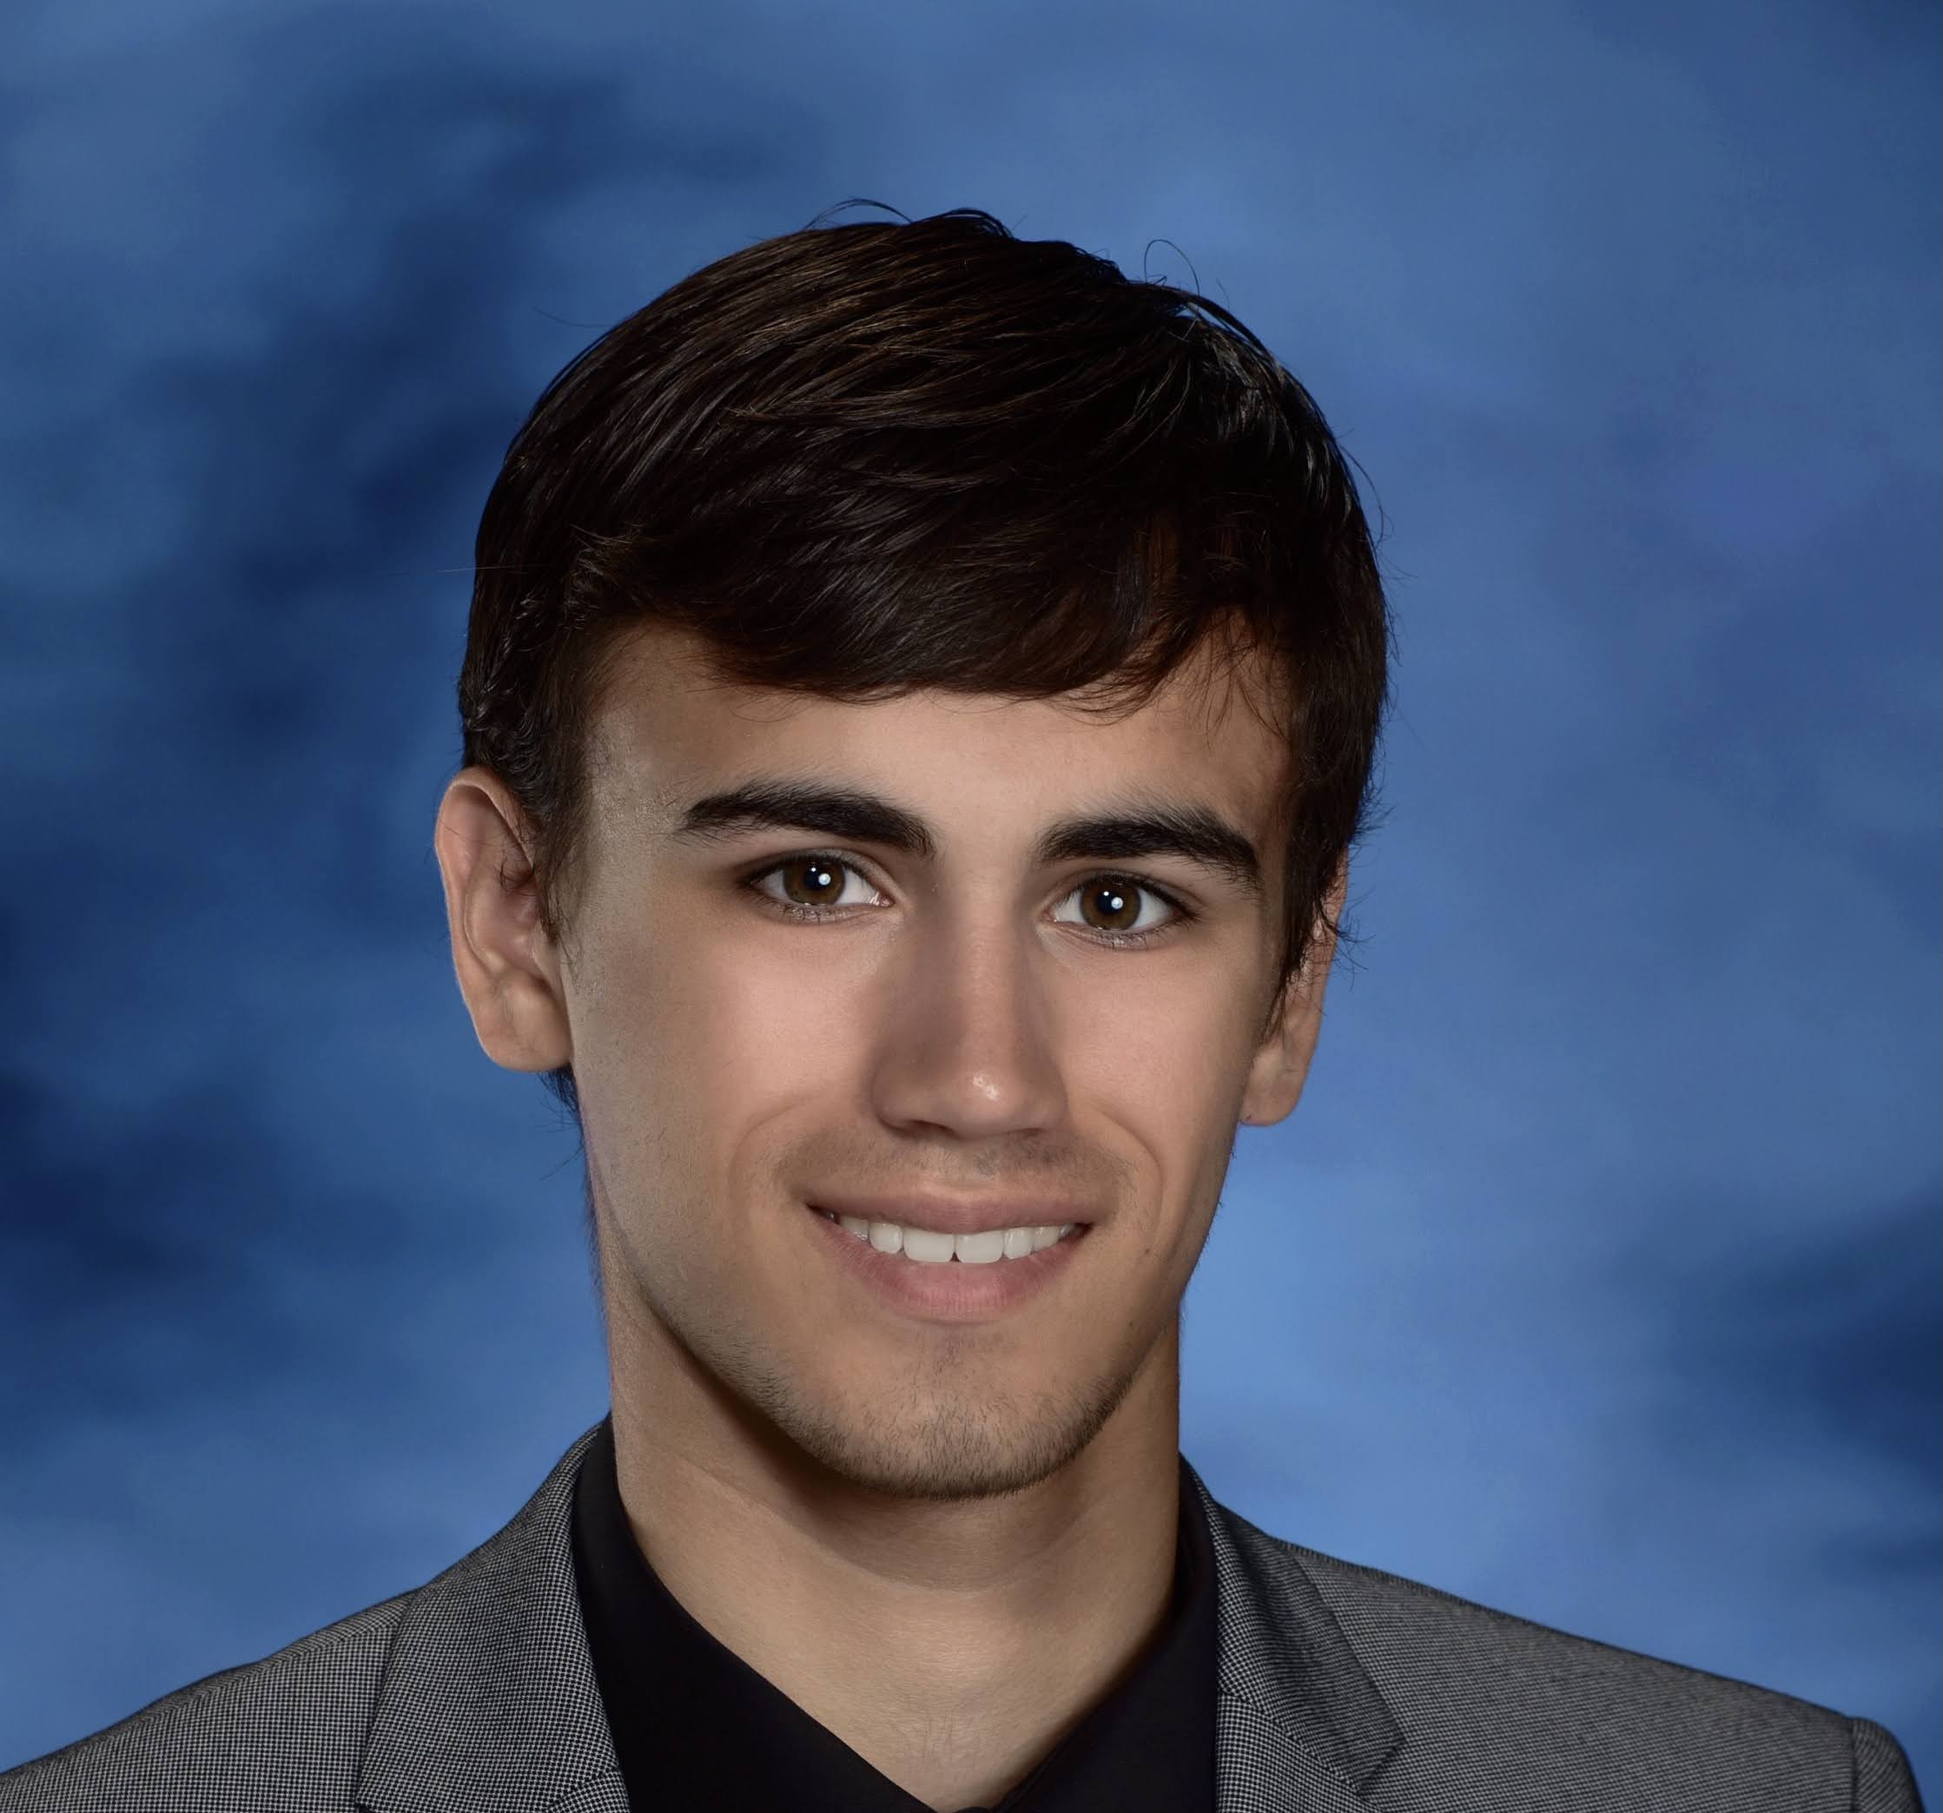
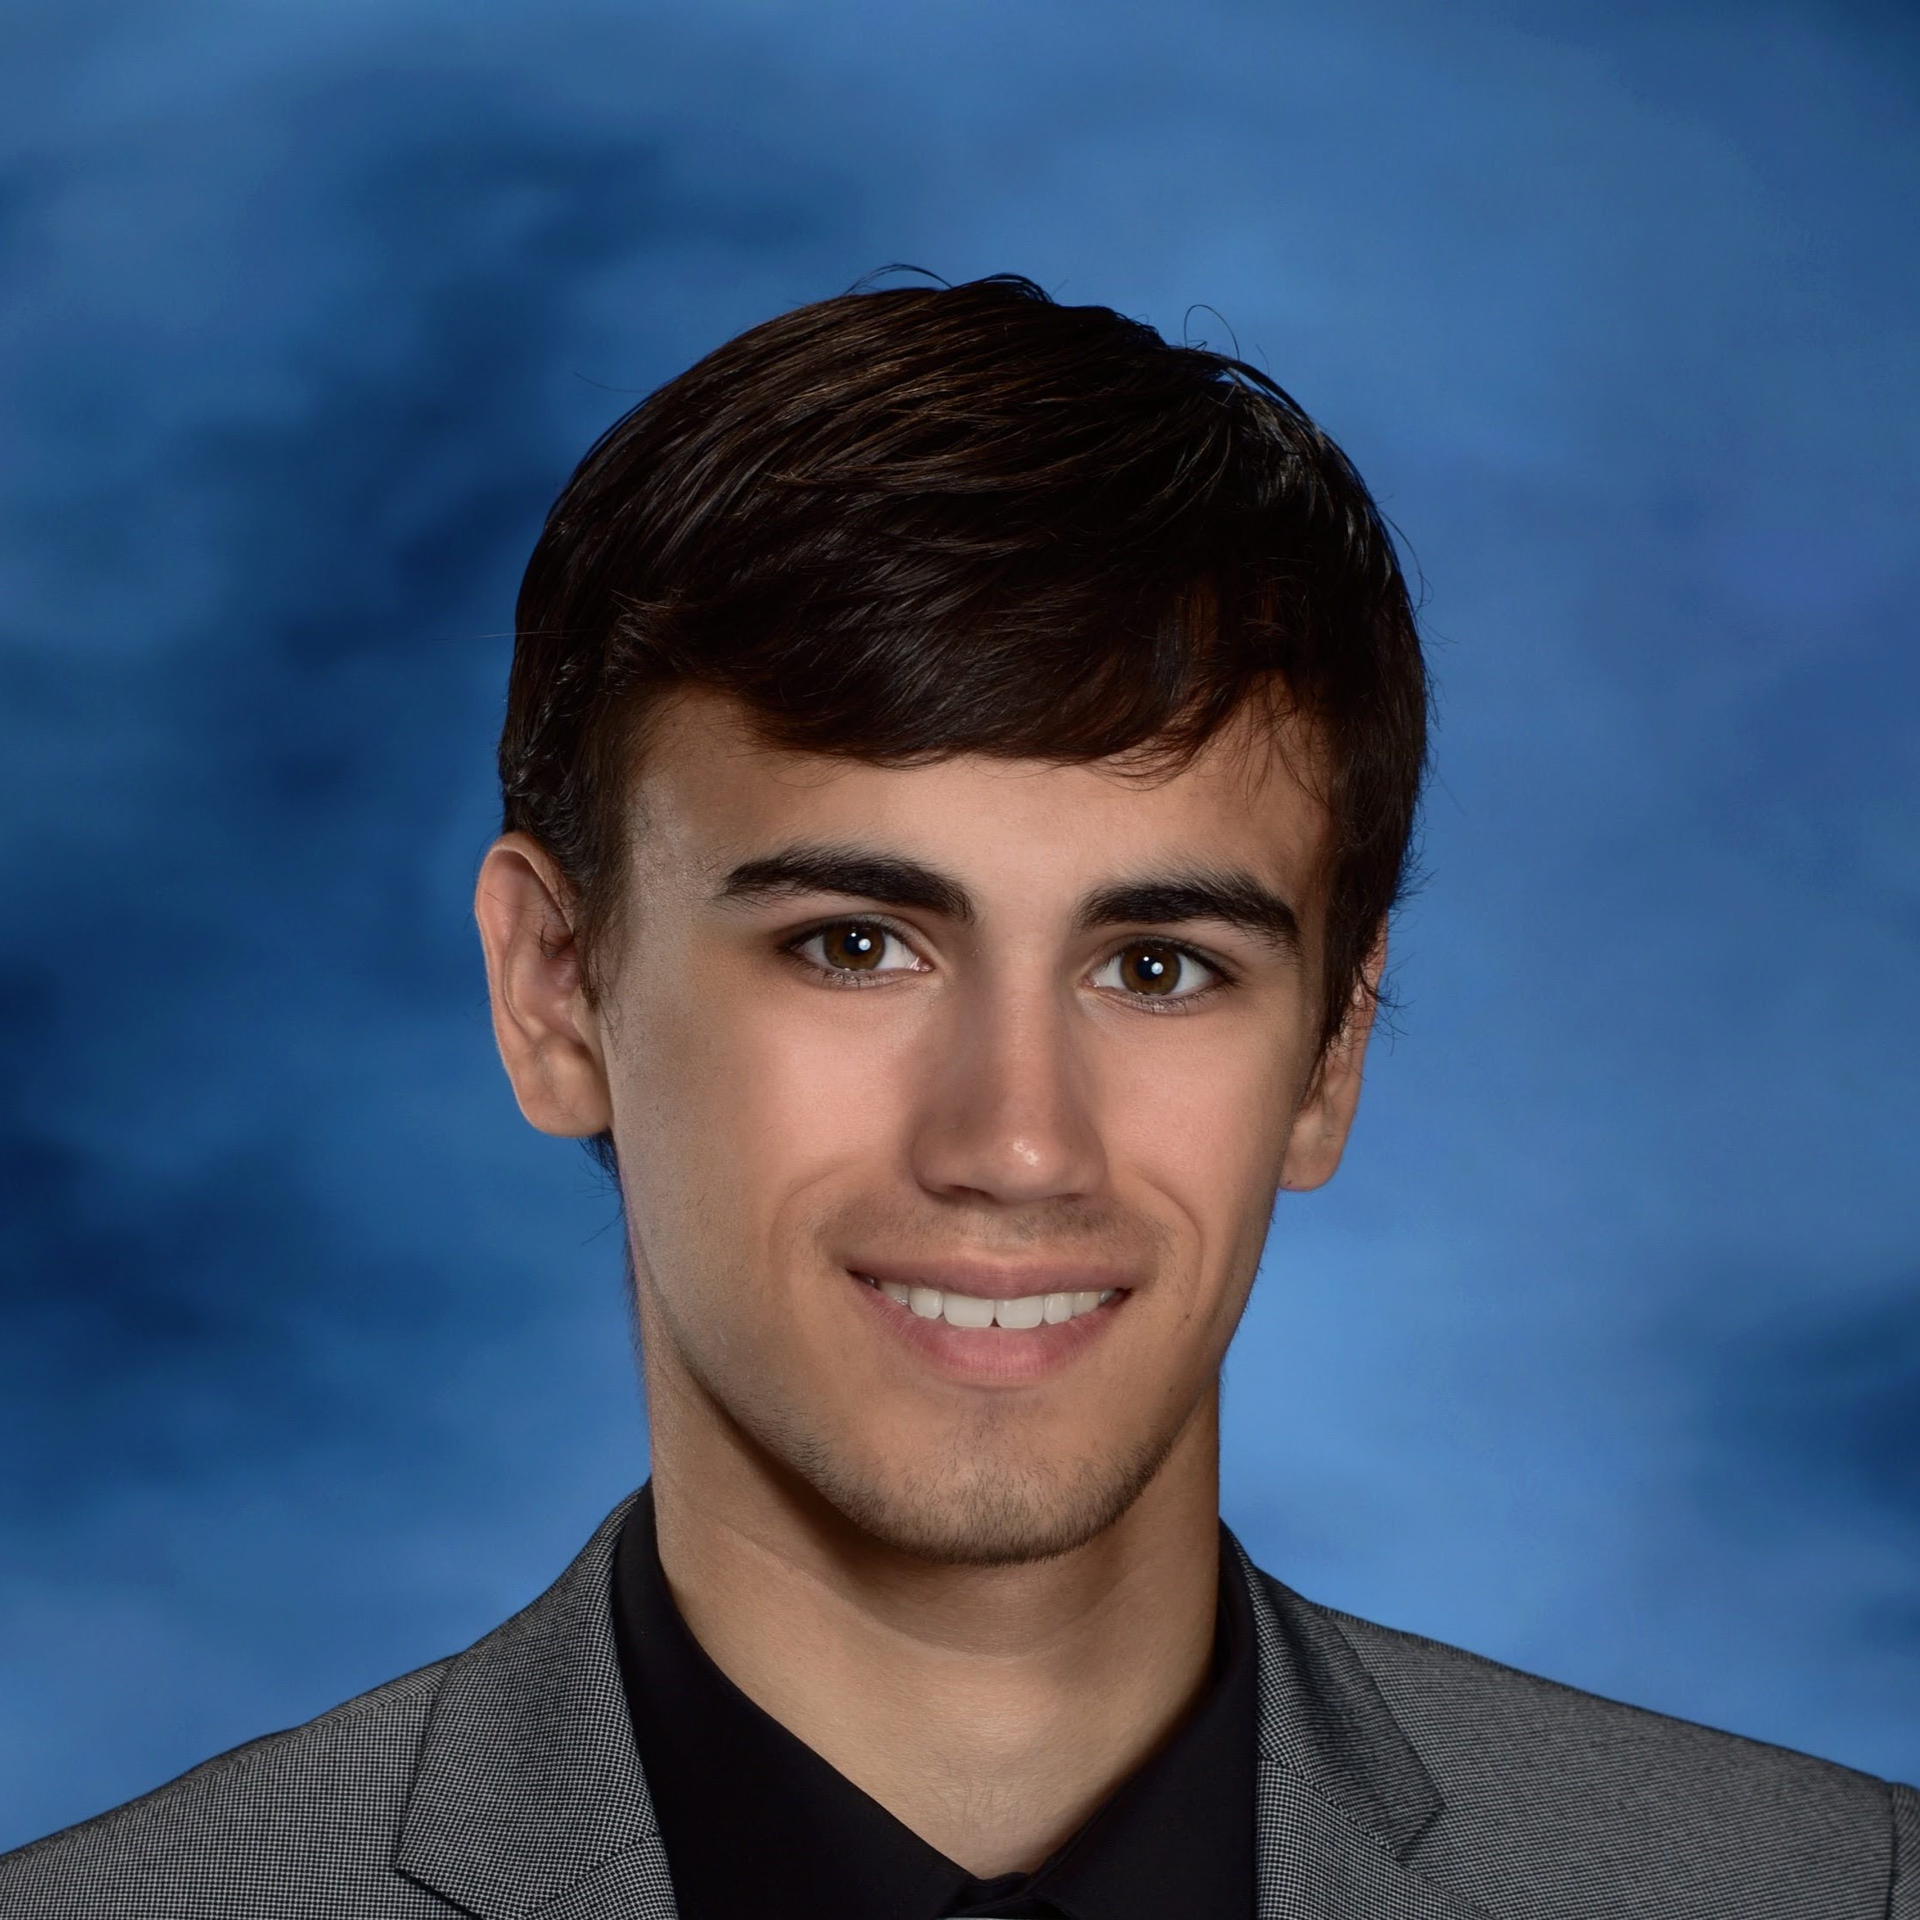
Added portrait and short bio

diff --git a/index.html b/index.html
@@ -11,7 +11,7 @@
 
   <body>
     <header>
-      <!-- <img src="Portrait.jpg" alt="Logo" /> -->
+      <img src="Portrait.jpg" class="portrait"/>
       <h1>Christian Otty</h1>
       <h2>Computer Engineering Student</h2>
     </header>
@@ -31,9 +31,12 @@
 
     <main>
       <section id="home" class="content" style="display: block">
-        <h2>Welcome to My Portfolio!</h2>
+        <!-- <h2>Welcome to My Portfolio!</h2> -->
         <p>
-          This is my homepage where you can learn more about me and my skills.
+          Hello, welcome to my website! 
+          My name is Christian and I am an engineering student studying 
+          at Binghamton University. I am currently a senior computer engineering 
+          major, and am on track to graduate with my masters in May of 2026.
         </p>
       </section>
 

diff --git a/style.css b/style.css
@@ -32,6 +32,23 @@ nav button.active {
   /*color: #27286e; /* Change text color for active button (optional) */
 }
 
+
+img {
+  display: block;
+  max-width: 100%;
+  height: auto;
+  margin-left: auto;
+  margin-right: auto;
+}
+
+img.portrait {
+  width: 200px;
+  height: auto;
+  border-radius: 100%;
+  margin-bottom: 20px;
+  box-shadow: 0 0px 12px 0 rgba(0,0,0,0.24);
+}
+
 .content {
   padding: 20px;
   border: 1px solid #ddd;
